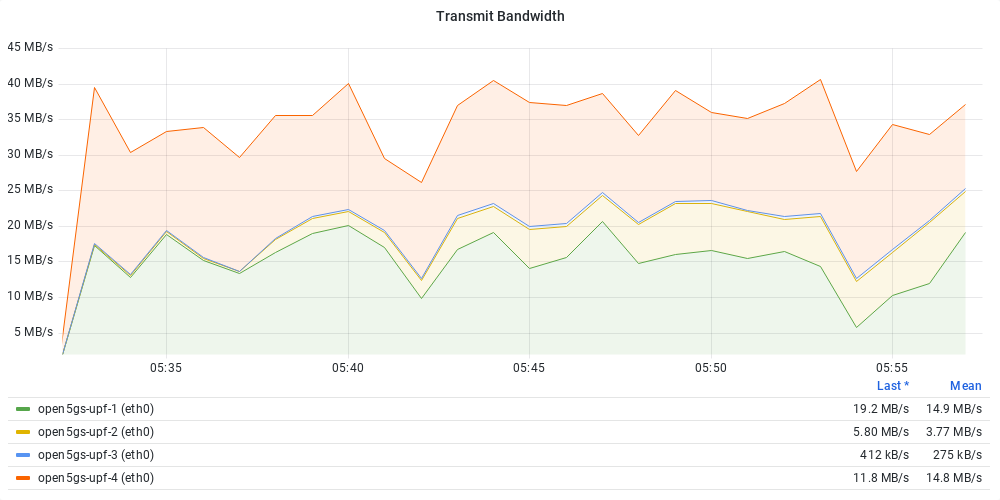
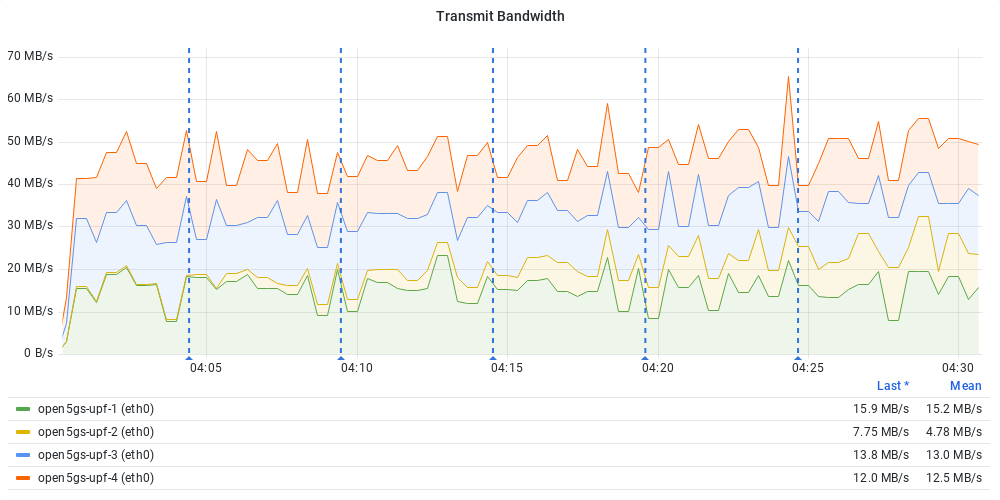
New graph for E06

diff --git a/experimentos/README.md b/experimentos/README.md
@@ -181,22 +181,22 @@ Este experimento é composto por 4 slices, um UPF para cada slice, sendo que tod
 
 - Mesmo script do experimento 01, mas com limitação de recursos
   - **UPF-1**
-    - **Requests**: CPU 1200m
-    - **Limits**: CPU 1200m
+    - **Requests**: CPU 1500m
+    - **Limits**: CPU 1500m
   - **UPF-2**
     - **Requests**: CPU 900m
     - **Limits**: CPU 900m
   - **UPF-3**
-    - **Requests**: CPU 800m
-    - **Limits**: CPU 800m
+    - **Requests**: CPU 600m
+    - **Limits**: CPU 600m
   - **UPF-4**
     - **Requests**: CPU 600m
     - **Limits**: CPU 600m
 
 ###  Links: 
-- [Snapshot raintank](https://snapshots.raintank.io/dashboard/snapshot/WkqlmEnBsqV3LE663xCtocNYWX0Iz4ks)
-- [Snapshot local](http://localhost:3000/dashboard/snapshot/ty0NvQZQOQzIcB3eIINKq7eICph75VA0)
-- [Grafana](http://localhost:3000/goto/0v531m5Iz?orgId=1)
+- [Snapshot raintank](https://snapshots.raintank.io/dashboard/snapshot/A14ZnF94isJFGRbP88um0pRPwbM8j4ax)
+- [Snapshot local](http://localhost:3000/dashboard/snapshot/xQccfr3tML9oZrwqpP3sxbrQBAvxqFgT)
+- [Grafana](http://localhost:3000/goto/xwiejp5Sz?orgId=1)
 
 
 ## Experimento 07 - Todos com recurso de CPU limitado, com mais recurso para slice 01 elimitação de banda para UPF-4
